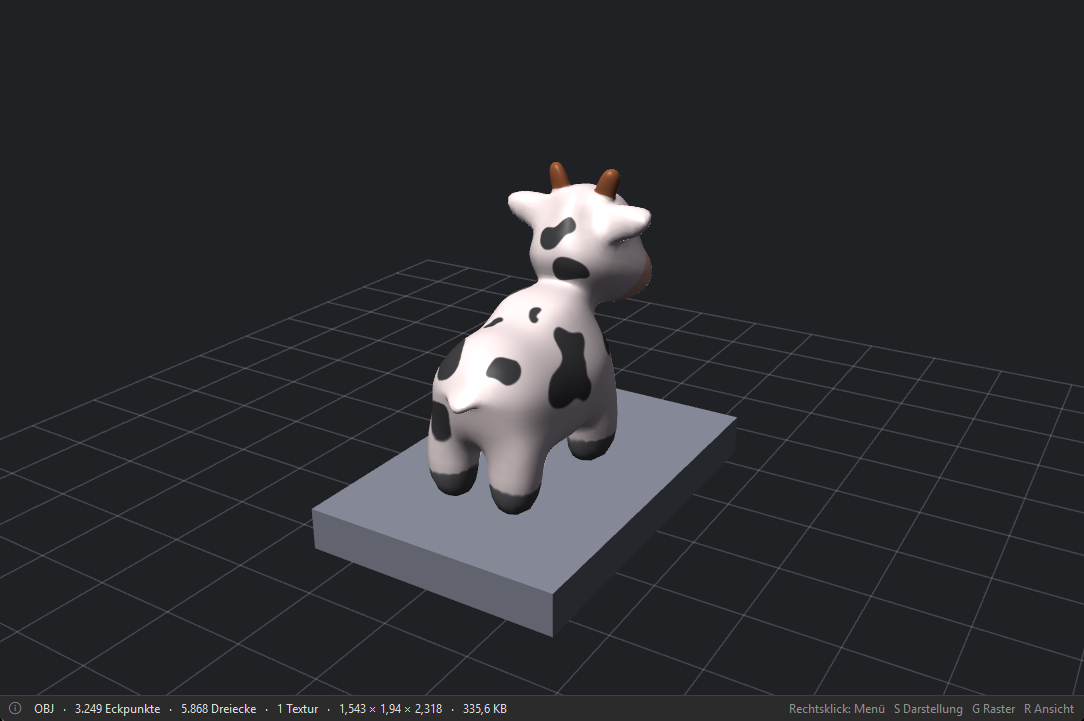
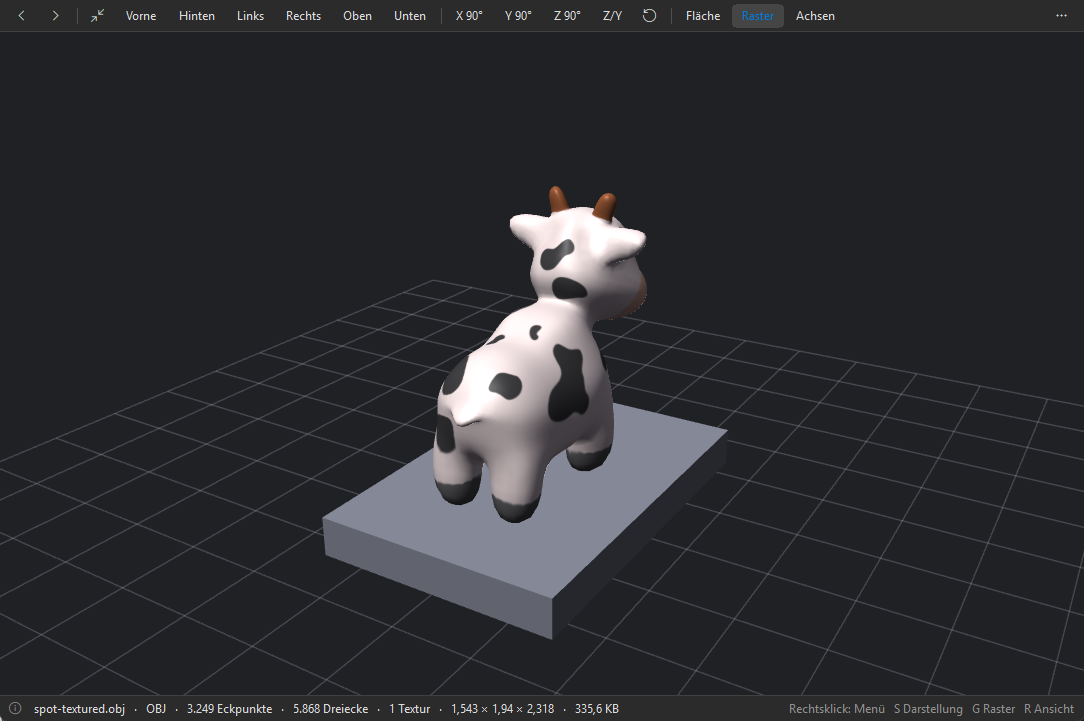
3divi 1.1.0: toolbar, previous/next file, remembered up axis, 2D DXF skipped

diff --git a/README.de.md b/README.de.md
@@ -14,7 +14,7 @@ Große Modelle laden im Hintergrund, Vorschaubilder erscheinen in der Miniaturan
 - **LDraw:** `.ldr`, `.mpd` (mehrere Dateien in einer), `.dat` – die Teile kommen aus deiner LDraw-Bibliothek (siehe unten)
 - **glTF** und **GLB**, **FBX**, **3DS**, **DXF**, **LWO** und **LWS** (LightWave), **AC** (AC3D), **ASE**, **DAE** (Collada), **3MF**, **AMF**, **X3D**, **MS3D**, **MD2**, **MD3**, **MD5MESH**, **MDC**, **COB**, **XGL**, **Q3O**, **Q3S**, **PMX**, **OGEX**
 
-Dateien mit einer mehrfach verwendeten Endung werden am Inhalt erkannt. Eine `configure.ac` oder eine fremde `.dat`-Datei öffnet sich deshalb weiter als Text.
+Dateien mit einer mehrfach verwendeten Endung werden am Inhalt erkannt. Eine `configure.ac` oder eine fremde `.dat`-Datei öffnet sich deshalb weiter als Text. DXF-Dateien, die nur 2D-Zeichnungen enthalten (Linien, Bögen, Text), überlässt 3divi dem nächsten Lister-Plugin.
 
 ## Funktionen
 
@@ -24,13 +24,15 @@ Dateien mit einer mehrfach verwendeten Endung werden am Inhalt erkannt. Eine `co
 - **Glättung:** Normalen der Datei behalten, flach (Facetten), 30°, 60° oder vollständig glatt – Flächen innerhalb des Winkels teilen sich eine glatte Normale
 - **Optimieren:** verschmilzt identische Eckpunkte und entfernt entartete Dreiecke
 - **Licht:** folgt der Kamera oder steht fest in der Szene; heller oder dunkler
-- **Transformieren:** um X, Y oder Z um 90° drehen, Oben-Achse wechseln (Z oben bei STL, PLY, 3DS, DXF; Y oben bei OBJ, glTF), zurücksetzen
+- **Transformieren:** um X, Y oder Z um 90° drehen, Oben-Achse wechseln (Z oben bei STL, PLY, 3DS, DXF; Y oben bei OBJ, glTF) – auf Wunsch je Dateiformat gemerkt (*Oben-Achse bei DXF-Dateien immer wechseln*) –, zurücksetzen
 - **Ansichten:** vorne, hinten, links, rechts, oben, unten (Ziffernblock), Achsen, Raster, Rückseiten ausblenden, Anti-Aliasing, optional FPS-Anzeige
+- **Symbolleiste:** die Ansichten, das Drehen um 90°, der Wechsel der Oben-Achse, Zurücksetzen, Darstellung, Raster und Achsen als Buttons, dazu ein Button für das ganze Menü (Taste O blendet sie aus oder ein)
+- **Vorige / nächste Datei:** Bild↑ / Bild↓ (oder die Pfeil-Buttons in der Symbolleiste) zeigen die vorige oder nächste Datei des Ordners, die 3divi unterstützt, in natürlicher Namensreihenfolge
 - **Speichern unter** STL, OBJ oder PLY im Kontextmenü – mit deiner Drehung, die Oben-Achse wird für das Zielformat umgerechnet
 - **Bild kopieren** (Strg+C) legt die aktuelle Ansicht in die Zwischenablage
 - **Vorschaubilder** in der Miniaturansicht des Total Commander (Dateien bis 96 MB)
 - **Laden im Hintergrund** mit Fortschrittsanzeige, auch große Modelle lassen den Total Commander nicht einfrieren
-- Statusleiste mit Format, Eckpunkten, Dreiecken, Texturen, Maßen und Dateigröße
+- Statusleiste mit Dateiname (abschaltbar), Format, Eckpunkten, Dreiecken, Texturen, Maßen und Dateigröße
 - Helles und dunkles Design im Windows-11-Look (automatisch wie Windows oder fest); deutsche und englische Oberfläche
 
 ## Download und Installation
@@ -38,7 +40,7 @@ Dateien mit einer mehrfach verwendeten Endung werden am Inhalt erkannt. Eine `co
 1. **`3divi.zip`** aus dem [neuesten Release](https://github.com/naderi/tc-3divi/releases/latest) herunterladen.
 2. Die ZIP-Datei im Total Commander öffnen (Enter auf der Datei) und die Frage nach der Installation des Plugins bestätigen.
 
-Die Einstellungen stehen in `3divi.ini` neben dem Plugin: `Mode`, `Grid`, `Axes`, `Bar`, `AA`, `Cull`, `Fps`, `Light`, `Gain`, `Theme` (0 automatisch, 1 hell, 2 dunkel) und `Language` (`de` oder `en`, sonst wie Windows).
+Die Einstellungen stehen in `3divi.ini` neben dem Plugin: `Mode`, `Grid`, `Axes`, `Bar`, `Toolbar`, `FileName`, `AA`, `Cull`, `Fps`, `Light`, `Gain`, `SwapUp_<FORMAT>` (z. B. `SwapUp_DXF=1`), `Theme` (0 automatisch, 1 hell, 2 dunkel) und `Language` (`de` oder `en`, sonst wie Windows).
 
 **Wenn du auch TreeView nutzt:** Beide Plugins öffnen `.dae`-Dateien. Stelle 3divi in der Liste der Lister-Plugins vor TreeView (*Konfigurieren > Optionen > Plugins*), dann öffnen sich Collada-Modelle hier, und andere XML-Dateien mit der Endung `.dae` gehen weiter an TreeView.
 
@@ -50,13 +52,14 @@ Die Einstellungen stehen in `3divi.ini` neben dem Plugin: `Mode`, `Grid`, `Axes`
 |---|---|
 | Rechtsklick, Menütaste | Kontextmenü mit allen Funktionen |
 | S | Nächste Darstellung |
-| G / A / B | Raster / Achsen / Statusleiste |
+| G / A / B / O | Raster / Achsen / Statusleiste / Symbolleiste |
 | T | Design: automatisch, hell, dunkel |
 | U | Oben-Achse wechseln (Z oder Y) |
 | X / Y / Z (+Umschalt) | Um 90° drehen (Umschalt: andere Richtung) |
 | R, Pos1, Num 0, Doppelklick | Ins Fenster einpassen |
 | Num 1, Num 3, Num 7 (+Strg) | Vorne, rechts, oben (Strg: hinten, links, unten) |
 | Pfeiltasten, + / − | Drehen, zoomen |
+| Bild↑ / Bild↓ | Vorige / nächste Datei des Ordners |
 | Strg+C | Bild kopieren |
 | F1 | Info |
 

diff --git a/README.md b/README.md
@@ -14,7 +14,7 @@ Large models load in the background, thumbnails show up in Total Commander's thu
 - **LDraw:** `.ldr`, `.mpd` (several files in one), `.dat` – the parts come from your LDraw library (see below)
 - **glTF** and **GLB**, **FBX**, **3DS**, **DXF**, **LWO** and **LWS** (LightWave), **AC** (AC3D), **ASE**, **DAE** (Collada), **3MF**, **AMF**, **X3D**, **MS3D**, **MD2**, **MD3**, **MD5MESH**, **MDC**, **COB**, **XGL**, **Q3O**, **Q3S**, **PMX**, **OGEX**
 
-Files with a shared extension are recognized by their content, so a `configure.ac` or an unrelated `.dat` file still opens as text.
+Files with a shared extension are recognized by their content, so a `configure.ac` or an unrelated `.dat` file still opens as text. DXF files that contain only 2D drawings (lines, arcs, text) are left to the next Lister plugin.
 
 ## Features
 
@@ -24,13 +24,15 @@ Files with a shared extension are recognized by their content, so a `configure.a
 - **Smoothing:** keep the normals of the file, flat (facets), 30°, 60° or fully smooth – faces within the angle share a smooth normal
 - **Optimize:** welds identical vertices and removes degenerate triangles
 - **Light:** follows the camera or stays fixed in the scene; brighter or darker
-- **Transform:** rotate by 90° around X, Y or Z, switch the up axis (Z-up for STL, PLY, 3DS, DXF; Y-up for OBJ, glTF), reset
+- **Transform:** rotate by 90° around X, Y or Z, switch the up axis (Z-up for STL, PLY, 3DS, DXF; Y-up for OBJ, glTF) – optionally remembered for a file format (*Always switch up axis for DXF files*) – reset
 - **Views:** front, back, left, right, top, bottom (numeric keypad), axes, grid, back-face culling, anti-aliasing, optional FPS display
+- **Toolbar:** the views, the 90° rotations, the up-axis switch, reset, shading mode, grid and axes as buttons, plus a button for the full menu (key O to hide or show)
+- **Previous / next file:** PgUp / PgDn (or the arrow buttons in the toolbar) show the previous or next file of the folder that 3divi supports, in natural name order
 - **Save as** STL, OBJ or PLY from the context menu – including your rotation, with the up axis converted for the target format
 - **Copy image** (Ctrl+C) puts the current view on the clipboard
 - **Thumbnails** in Total Commander's thumbnail view (files up to 96 MB)
 - **Background loading** with a progress display, so even large models never freeze Total Commander
-- Status bar with format, vertices, triangles, textures, size and file size
+- Status bar with the file name (can be switched off), format, vertices, triangles, textures, size and file size
 - Light and dark design in the Windows 11 look (automatic like Windows, or fixed); English and German interface
 
 ## Download and installation
@@ -38,7 +40,7 @@ Files with a shared extension are recognized by their content, so a `configure.a
 1. Download **`3divi.zip`** from the [latest release](https://github.com/naderi/tc-3divi/releases/latest).
 2. Open the ZIP in Total Commander (Enter on the file) and confirm the question whether to install the plugin.
 
-Settings are stored in `3divi.ini` next to the plugin: `Mode`, `Grid`, `Axes`, `Bar`, `AA`, `Cull`, `Fps`, `Light`, `Gain`, `Theme` (0 automatic, 1 light, 2 dark) and `Language` (`de` or `en`, otherwise like Windows).
+Settings are stored in `3divi.ini` next to the plugin: `Mode`, `Grid`, `Axes`, `Bar`, `Toolbar`, `FileName`, `AA`, `Cull`, `Fps`, `Light`, `Gain`, `SwapUp_<FORMAT>` (e.g. `SwapUp_DXF=1`), `Theme` (0 automatic, 1 light, 2 dark) and `Language` (`de` or `en`, otherwise like Windows).
 
 **If you also use TreeView:** both plugins open `.dae` files. Put 3divi before TreeView in the list of Lister plugins (*Configuration > Options > Plugins*), then Collada models open here, while other XML files with the `.dae` extension still go to TreeView.
 
@@ -50,13 +52,14 @@ Settings are stored in `3divi.ini` next to the plugin: `Mode`, `Grid`, `Axes`, `
 |---|---|
 | Right click, Menu key | Context menu with all functions |
 | S | Next shading mode |
-| G / A / B | Grid / axes / status bar |
+| G / A / B / O | Grid / axes / status bar / toolbar |
 | T | Theme: automatic, light, dark |
 | U | Switch the up axis (Z or Y) |
 | X / Y / Z (+Shift) | Rotate by 90° (Shift: other way) |
 | R, Home, Num 0, double-click | Fit to the window |
 | Num 1, Num 3, Num 7 (+Ctrl) | Front, right, top (Ctrl: back, left, bottom) |
 | Arrow keys, + / − | Orbit, zoom |
+| PgUp / PgDn | Previous / next file of the folder |
 | Ctrl+C | Copy the image |
 | F1 | About |
 
